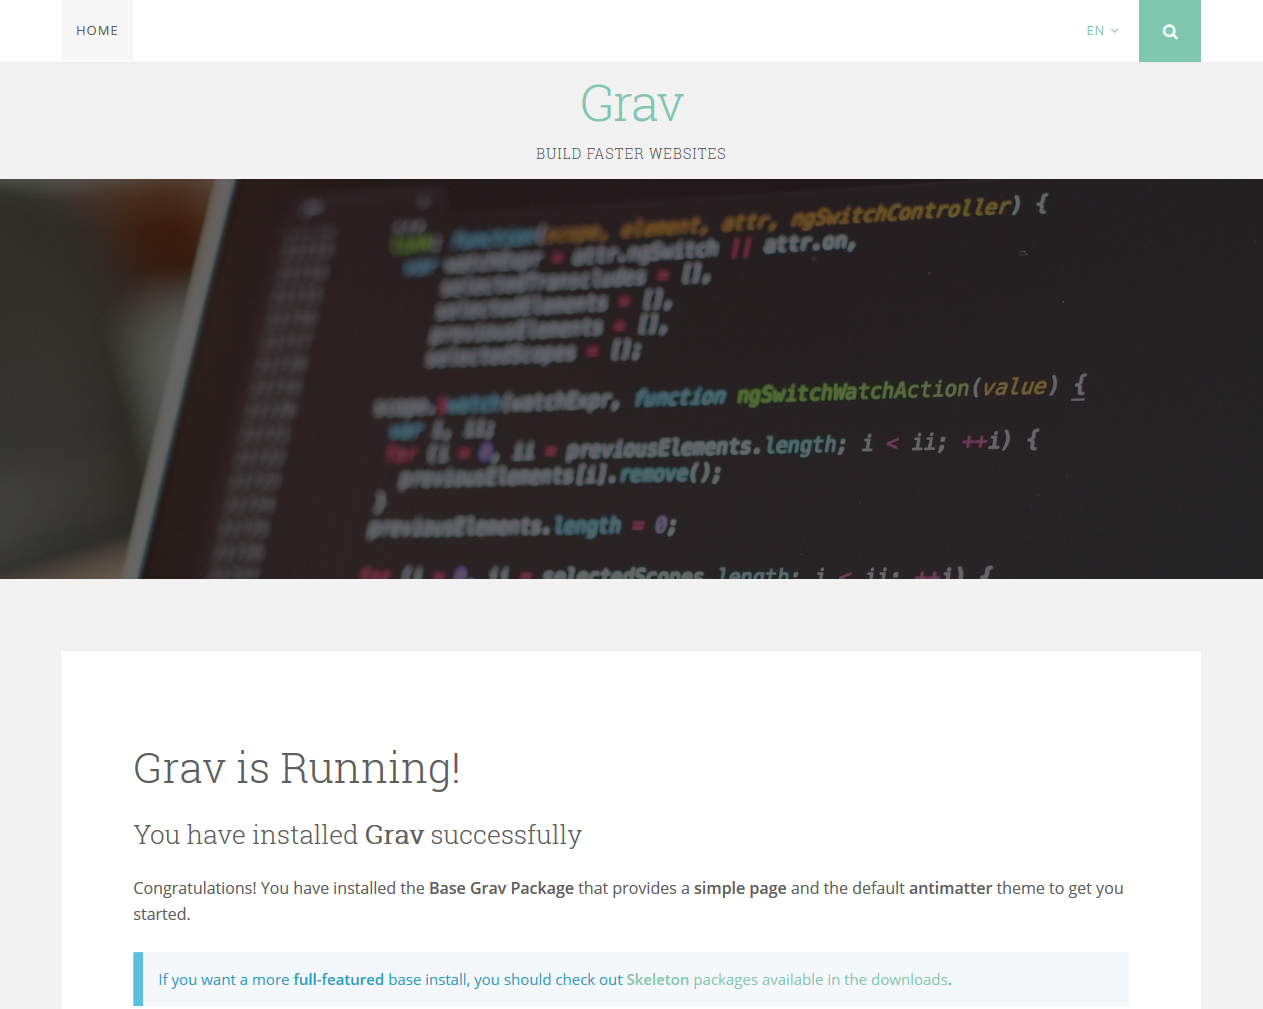
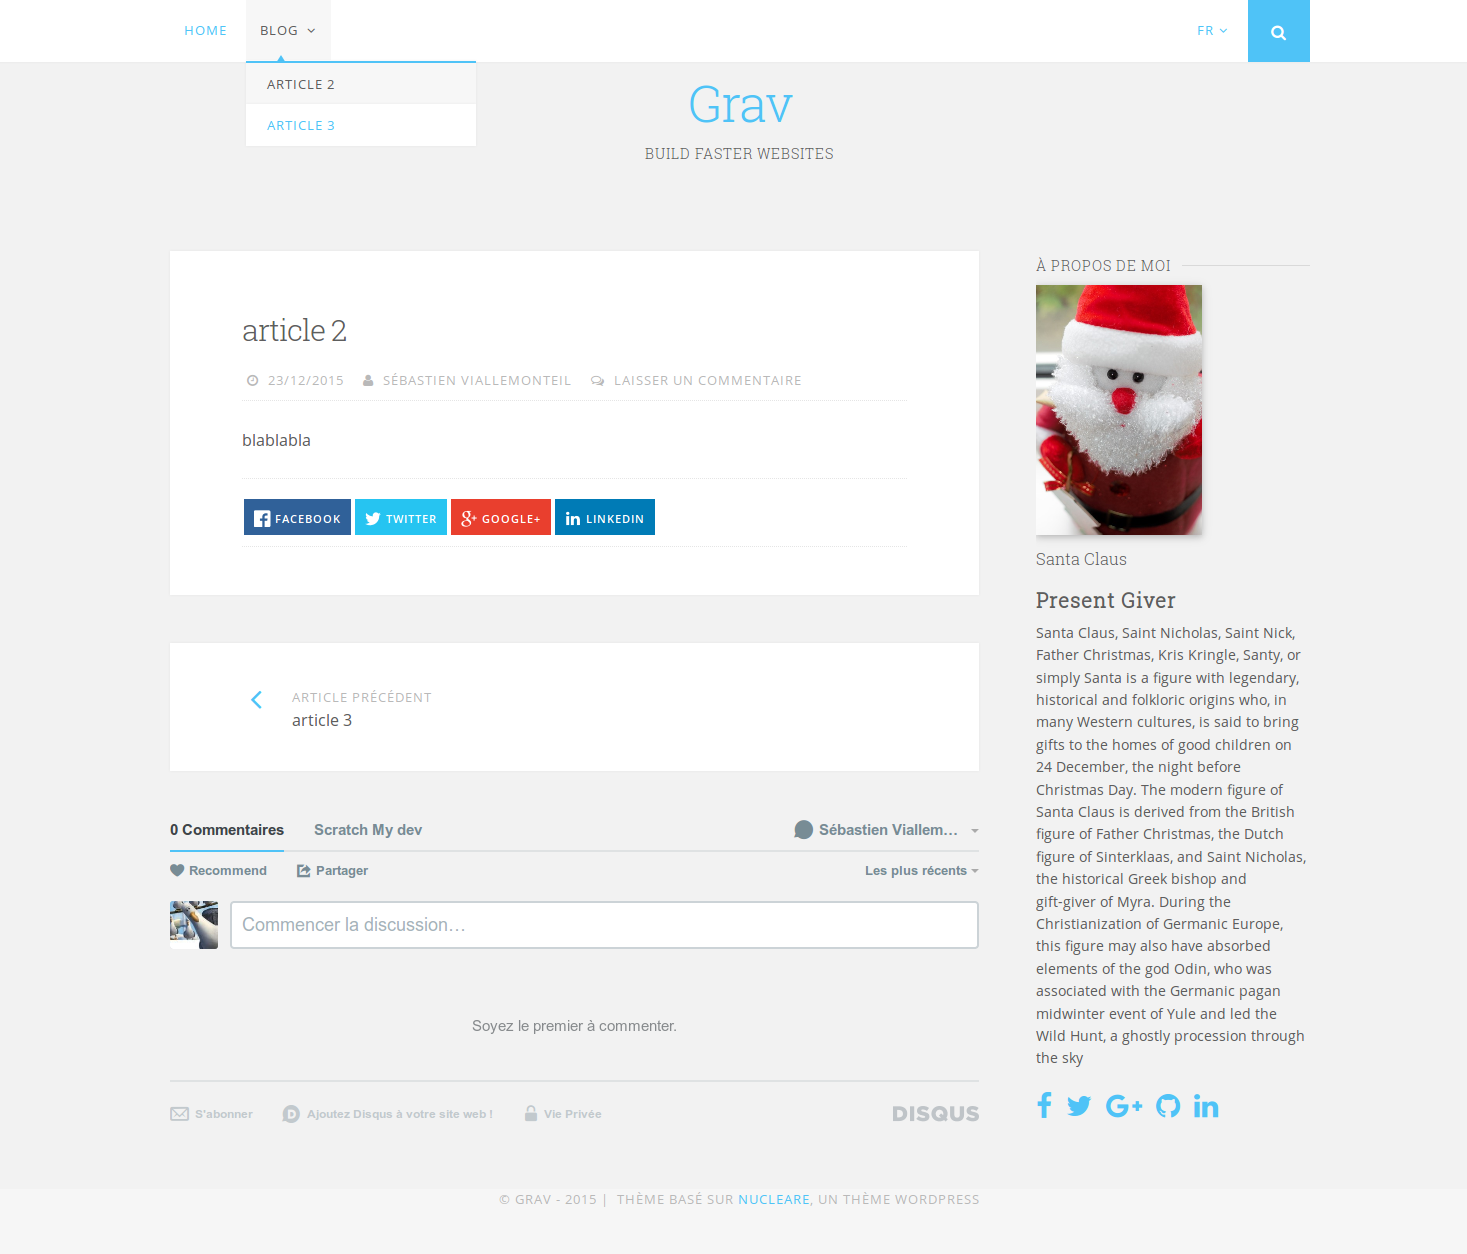
Version 1.1.0 is now ready

diff --git a/README.md b/README.md
@@ -1,6 +1,8 @@
 # Nucleare
 
 ![Nucleare](assets/readme_1.png)
+![Nucleare](assets/readme_2.png)
+
 This template is based on the WordPress theme, named [Nucleare](https://wordpress.com/themes/nucleare/).
 It's aimed to be used mainly for blogs, although you can use it with default type pages (Modular templates will comme later).
 There might be some problems or features that I forgot, I tried to do my best from what I had with the WordPress theme. If you find something wrong, please open an issue or make a pull request, I'll be glad to look into it. Thanks
@@ -11,6 +13,7 @@ There might be some problems or features that I forgot, I tried to do my best fr
 * Lightweight and minimal for optimal performance
 * Fully responsive with off-page mobile navigation
 * Multiple page template types
+* Multi-language support
 * Fontawesome icon support
 * Customize main colors of the theme (background, links, buttons), look at the blueprints to see the options
 * Header image is optional
@@ -35,6 +38,11 @@ There might be some problems or features that I forgot, I tried to do my best fr
   * Showcase Modular: TODO
   * Text Modular: TODO
 * SnipCart: TODO
+
+### Supported languages
+* English
+* French
+* If you want another language to be supported, please look into the `languages.yaml`, add your language and make a Pull Request
 
 # Installation
 

diff --git a/CHANGELOG.md b/CHANGELOG.md
@@ -1,3 +1,12 @@
+# v1.1.0
+## 12/23/2015
+
+1. [](#bugfix)
+    * Added a margin top for notices from the Markdown notices plugin
+    * The top border color of the langswitcher menu was not replaced by the custom color if set
+2. [](#new)
+    * Multi-Language support added, for now, English and French are supported
+
 # v1.0.6
 ## 12/21/2015
 
